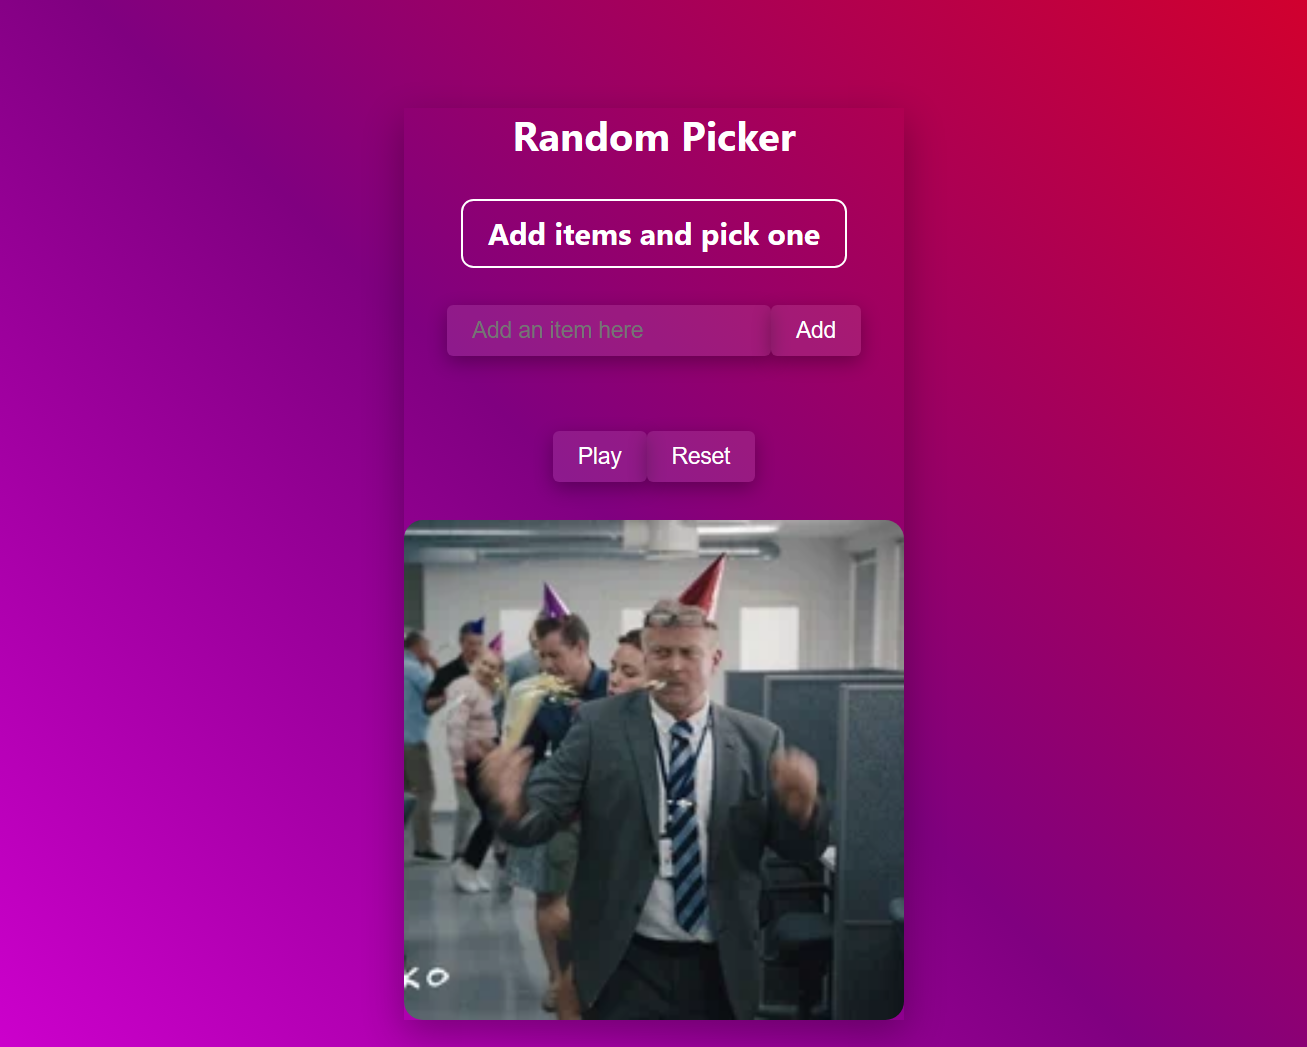
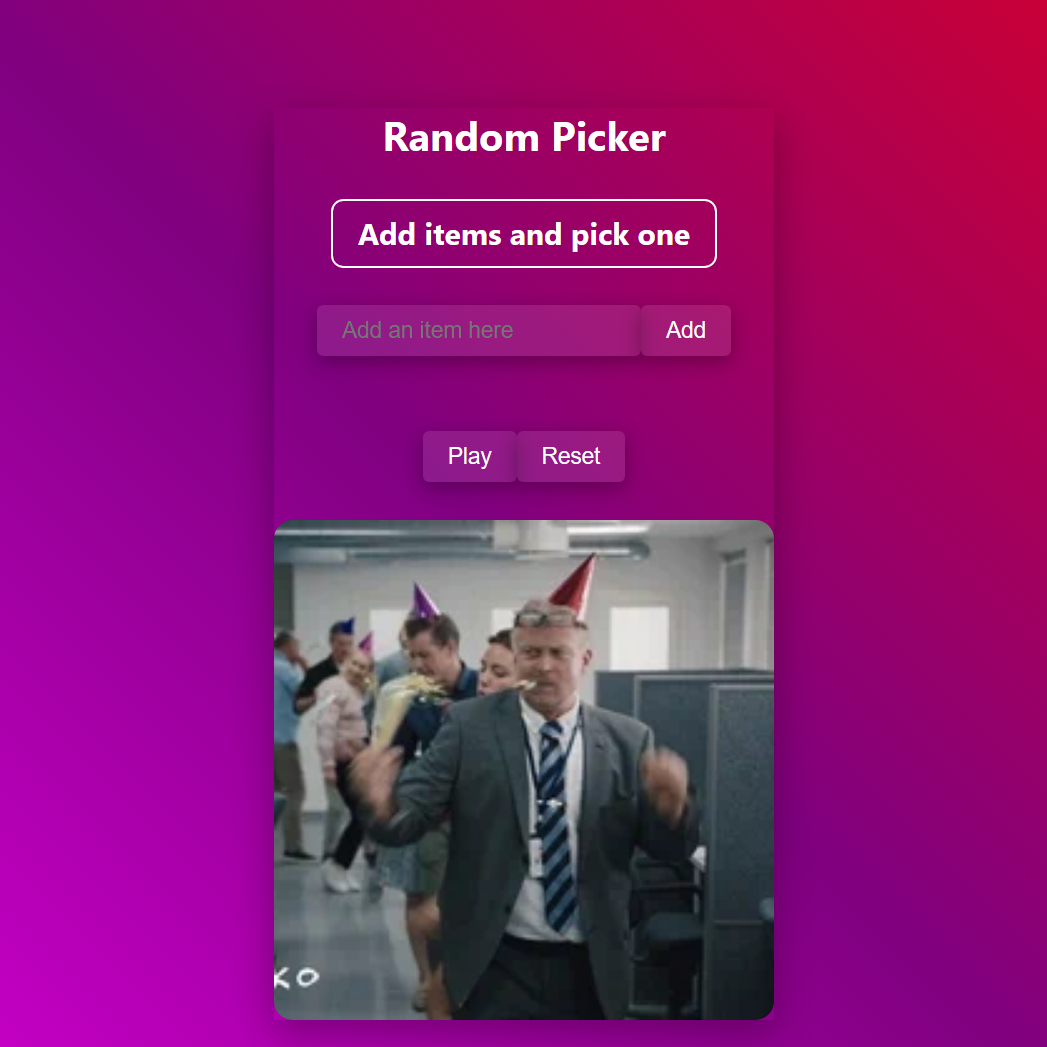
font family and font size changed

diff --git a/src/components/About.jsx b/src/components/About.jsx
@@ -1,39 +1,39 @@
 import AOS from "aos";
-import "aos/dist/aos.css"; // You can also use <link> for styles
-// ..
+import "aos/dist/aos.css";
+
 AOS.init();
 
 export default function About() {
   return (
-    <section id="about" className="text-gray-400 body-font mt-10 mb-10 px-4 ">
-      <div className="container mx-auto  flex space-x-6 px-5 py-2 mb-0 md:flex-row flex-col items-center ">
-        <div className="lg:max-w-lg lg:w-full md:w-1/2  mt-10 mb-0 md:mt-0">
+    <section id="about" className="text-gray-400 body-font mt-10 mb-10 px-4 overflow-x-hidden overflow-y-hidden ">
+      <div className="container mx-auto flex flex-col md:flex-row items-center space-y-6 md:space-x-6 px-5 py-2 mb-0">
+        <div className="w-full md:w-1/2 lg:max-w-lg mt-10 mb-0 md:mt-0 mx-auto">
           <img
             src="/fano3.png"
             alt="About Me"
-            className="object-cover object-center rounded "
+            className="object-cover object-center rounded"
           />
         </div>
-        <div className="lg:flex-grow md:w-1/2 lg:pr-24 md:pr-16 flex flex-col md:items-start md:text-left mb-16 md:mb-0 items-center text-center bg-gray-900 bg-opacity-50 backdrop-filter backdrop-blur-sm p-6 rounded-lg shadow-lg">
+        <div className=" text-gray-300 w-full md:w-1/2 lg:pr-24 md:pr-16 flex flex-col md:items-start md:text-left mb-16 md:mb-0 items-center text-center bg-gray-900 bg-opacity-50 backdrop-filter backdrop-blur-sm p-6 rounded-lg shadow-lg">
           <h2 className="text-3xl font-semibold mb-4">About Me</h2>
-          <p className="text-lg mb-4 mr-5">
+          <p className="text-2xl mb-4 text-left">
             I was born in Venezuela son of Italian father and Venezuelan mother,
-            multiculturalism has been part of my daily life , I studied
-            journalism specializing in audiovisual content production, career
+            multiculturalism has been part of my daily life, I studied
+            journalism specializing in audiovisual content production, a career
             that I had the opportunity to put into practice in various
             independent projects.
           </p>
-          <p className="text-lg mb-5 mr-5">
+          <p className="text-2xl mb-5 text-left">
             In 2020 I had the opportunity to move to Germany to look for new job
-            opportunities and professional growth. since then i have been
-            working hard to achieve this, learning the german language, working
-            for companies like Amazon and constantly learning new skills that
-            will allow me to fully integrate into the german labour market.
+            opportunities and professional growth. Since then, I have been
+            working hard to achieve this, learning the German language, working
+            for companies like Amazon, and constantly learning new skills that
+            will allow me to fully integrate into the German labor market.
           </p>
-          <p className="text-lg mb-4 mr-5">
-            in 2022 i decided to enrich my knowledge, so i took the opportunity
-            to enroll in a ‘Weiterbildung’ full-time Training program, to become
-            in a Full Stack Web Developer, my goal is to continue enriching my
+          <p className="text-2xl mb-4 text-left">
+            In 2022, I decided to enrich my knowledge, so I took the opportunity
+            to enroll in a ‘Weiterbildung’ full-time training program, to become
+            a Full Stack Web Developer. My goal is to continue enriching my
             knowledge by putting it into practice in the job market.
           </p>
         </div>

diff --git a/src/components/Navbar.jsx b/src/components/Navbar.jsx
@@ -5,35 +5,35 @@ import Logo from "/LogoSB.png";
 
 export default function Navbar() {
   return (
-    <header className="bg-gray-800 bg-opacity-70 backdrop-filter backdrop-blur-lg md:sticky top-0 z-10">
+    <header className="bg-gray-800 bg-opacity-70 backdrop-filter backdrop-blur-lg md:sticky top-0 z-10"data-aos="fade-down">
       <div className="container mx-auto flex flex-wrap p-5 flex-col md:flex-row items-center">
         <div className="flex justify-between w-full md:w-auto mb-4 md:mb-0 items-center">
           <img src={Logo} alt="logo" className="w-10 h-10 ml-1" />
           <a
-            className="title-font font-medium text-white ml-3 text-2xl"
+            className="title-font font-medium text-white ml-3 text-4xl"
             href="#home"
           >
             Stefano Borrelli
           </a>
         </div>
         <nav className="md:mr-auto md:ml-4 md:py-1 md:pl-4 md:border-l md:border-gray-700 flex flex-wrap items-center text-base justify-center w-full md:w-auto">
-          <a href="#about" className="mr-5 hover:text-white hidden md:block">
+          <a href="#about" className="mr-5 hover:text-white hidden md:block text-3xl">
             About
           </a>
-          <a href="#projects" className="mr-5 hover:text-white hidden md:block">
+          <a href="#projects" className="mr-5 hover:text-white hidden md:block text-3xl">
             Projects
           </a>
-          <a href="#skills" className="mr-5 hover:text-white hidden md:block">
+          <a href="#skills" className="mr-5 hover:text-white hidden md:block text-3xl">
             Skills
           </a>
         </nav>
-        <div className="flex justify-center w-full md:w-auto space-x-4 drop-shadow-lg shadow-lg">
+        <div className="flex justify-center w-full md:w-auto space-x-4 ">
           <a
             href="#contact"
-            className="inline-flex items-center border-0 py-2 px-4 focus:outline-none hover:bg-white/[0.1] hover:scale-105 rounded text-lg transition-transform duration-300 text-white"
+            className="inline-flex items-center border-0 py-2 px-4 focus:outline-none hover:bg-white/[0.1] hover:scale-105 rounded  transition-transform duration-300 text-white text-3xl"
           >
             Contact Me
-            <FaArrowRight className="w-5 h-5 ml-1" />
+            <FaArrowRight className="w-8 h-8 ml-3 " />
           </a>
           <a
             href="https://github.com/Goleo87"
@@ -41,7 +41,7 @@ export default function Navbar() {
             rel="noopener noreferrer"
             className="inline-flex items-center   border-0 py-2 px-4 focus:outline-none hover:bg-white/[0.1] hover:scale-105 rounded text-lg transition-transform duration-300 text-white"
           >
-            <FaGithub className="w-5 h-5 ml-1" />
+            <FaGithub className="w-8 h-8 " />
           </a>
           <a
             href="https://www.linkedin.com/in/stefanoborrelli"
@@ -49,7 +49,7 @@ export default function Navbar() {
             rel="noopener noreferrer"
             className="inline-flex items-center border-0 py-2 px-4 focus:outline-none hover:bg-white/[0.1] hover:scale-105 rounded text-lg transition-transform duration-300 text-white"
           >
-            <GrLinkedin className="w-5 h-5 ml-1" />
+            <GrLinkedin className="w-8 h-8 " />
           </a>
         </div>
       </div>

diff --git a/src/components/Home.jsx b/src/components/Home.jsx
@@ -5,18 +5,17 @@ export default function Home() {
       className="text-gray-400 body-font transition-opacity duration-1000  delay-500 easy-out opacity-100"
       
     >
-      <div className=" overflow-hidden container mx-auto  flex space-x-6 px-5 py-2 mb-0 md:flex-row flex-col items-center ">
+      <div className=" overflow-hidden container mx-auto mt-10 flex space-x-6 px-5 py-2 mb-0 md:flex-row flex-col items-center ">
         <div className="lg:flex-grow md:w-1/2 lg:pr-24 md:pr-16 flex flex-col md:items-start md:text-left mb-16 md:mb-0 items-center text-center bg-gray-900 bg-opacity-50 backdrop-filter backdrop-blur-sm p-6 rounded-lg shadow-lg" data-aos="fade-right"
       data-aos-offset="300"
       data-aos-easing="ease-in-sine">
           <h1 className="title-font sm:text-4xl text-3xl mb-4 font-medium text-white animate-bounce">
             Hi, I am Stefano.
           </h1>
-          <h2 className="title-font sm:text-2xl text-xl mb-4 font-medium text-rose-500">
-            <br className="hidden lg:inline-block" />
+          <h2 className="tittletext text-3xl sm:text-2xl mb-4 font-medium text-rose-500">
             Frontend Web Developer & Audiovisual Creator
           </h2>
-          <p className="mb-8 leading-relaxed">
+          <p className="textintro text-2xl mb-8 leading-relaxed   text-left ">
             I am a creative person with a passion for technology and art. I have
             a background in Audiovisual Production, which has allowed me to work
             on various projects such as short films, music videos, and podcasts.
@@ -27,13 +26,13 @@ export default function Home() {
           <div className="flex space-x-2 justify-center flex-wrap">
             <a
               href="#contact"
-              className="inline-flex text-white bg-rose-700 bg-opacity-70 backdrop-filter backdrop-blur-lg border-spacing-0.5 py-2 px-6 focus:outline-none hover:bg-rose-600 hover:scale-105 rounded text-lg transition-transform duration-300 mb-4 md:mb-0 md:mr-4"
+              className="inline-flex text-white bg-rose-700 bg-opacity-70 backdrop-filter backdrop-blur-lg border-spacing-0.5 py-2 px-6 focus:outline-none hover:bg-rose-600 hover:scale-105 rounded text-2xl transition-transform duration-300 mb-4 md:mb-0 md:mr-4 drop-shadow-sm shadow-lg"
             >
               Work With Me
             </a>
             <a
               href="#projects"
-              className="inline-flex text-white bg-rose-700 bg-opacity-70 backdrop-filter backdrop-blur-lg border-spacing-0.5 py-2 px-6 focus:outline-none hover:bg-rose-600 hover:scale-105 rounded text-lg transition-transform duration-300 mb-4 md:mb-0 md:mr-4"
+              className="inline-flex drop-shadow-sm shadow-lg text-white bg-rose-700 bg-opacity-70 backdrop-filter backdrop-blur-lg border-spacing-0.5 py-2 px-6 focus:outline-none hover:bg-rose-600 hover:scale-105 rounded text-2xl transition-transform duration-300 mb-4 md:mb-0 md:mr-4"
             >
               My Projects
             </a>

diff --git a/src/components/Projects.jsx b/src/components/Projects.jsx
@@ -1,33 +1,31 @@
-
 import { projects } from "../data";
 import { CodeIcon } from "@heroicons/react/solid";
-
-
 
 export default function Projects() {
   return (
     <section id="projects" className="text-gray-400 bg-gray-900 bg-opacity-50 backdrop-filter backdrop-blur-sm p-6 rounded-lg shadow-lg">
       <div className="container px-5 py-10 mx-auto text-center lg:px-40">
         <div className="flex flex-col w-full mb-20">
-          <CodeIcon className="mx-auto inline-block w-20 h-20 mb-5 " />
+          <CodeIcon className="mx-auto inline-block w-20 h-20 mb-5" />
           <h1 className="sm:text-4xl text-3xl font-medium title-font mb-4 text-white">
             Projects in Development
           </h1>
         </div>
-        <div className="flex flex-wrap m-4">
+        <div className="flex flex-wrap justify-center m-4">
           {projects.map((project) => (
             <a
               href={project.link}
               key={project.image}
               target="_blank"
-              className="sm:w-1/2 lg:w-1/4 w-full p-4">
-              <div className="flex relative w-full h-full">
+              rel="noopener noreferrer"
+              className="w-full sm:w-1/2 lg:w-1/4 p-4">
+              <div className="flex relative w-full h-full aspect-w-1 aspect-h-1">
                 <img
                   alt="gallery"
                   className="absolute inset-0 w-full h-full object-cover object-center transition-transform duration-300 transform hover:scale-105"
                   src={project.image}
                 />
-                <div className="px-8 py-10 relative z-10 w-full border-4 border-gray-800 bg-gray-900 bg-opacity-70 backdrop-filter backdrop-blur-lg opacity-0 hover:opacity-100 transition-opacity duration-300">
+                <div className="px-8 py-10 relative z-10 w-full  bg-gray-900 bg-opacity-70 backdrop-filter backdrop-blur-lg opacity-0 hover:opacity-100 transition-opacity duration-300">
                   <h2 className="tracking-widest text-sm title-font font-large text-rose-500 mb-1">
                     {project.subtitle}
                   </h2>

diff --git a/src/components/Contact.jsx b/src/components/Contact.jsx
@@ -2,15 +2,15 @@ export default function Contact() {
   return (
     <section id="contact" className="relative">
       <div className="container py-10 mx-auto lg:w-1/2 px-6 mt-4 lg:mt-0 text-center lg:text-center">
-        <h1 className="text-3xl font-medium title-font text-white mb-4">
+        <h1 className="text-5xl font-medium text-white mb-4">
           Contact
         </h1>
-        <h2 className="text-lg leading-relaxed mb-8"></h2> Via Email:{" "}
+        <h2 className="text-lg leading-relaxed mb-8"></h2> Via Email: {" "}
         <a
           href="mailto:stefano.borrelli@gmail.com"
           className="text-rose-500 leading-relaxed text-xl mb-8 hover:text-rose-100 transition duration-300 ease-in-out"
         >
-          stefano.borrelli@gmail.com
+           stefano.borrelli@gmail.com
         </a>
         <h1 className="text-xl">
           © 2024 Stefano Borrelli. All rights reserved.

diff --git a/src/App.jsx b/src/App.jsx
@@ -4,11 +4,11 @@ import Contact from "./components/Contact";
 import Navbar from "./components/Navbar";
 import Projects from "./components/Projects";
 import Skills from "./components/Skills";
-import backgroundImage from "../public/g8.jpg";
+import backgroundImage from "/g8.jpg";
 import About from "./components/About";
 import Intro from "./components/Intro";
 import AOS from 'aos';
-import 'aos/dist/aos.css'; // You can also use <link> for styles
+import 'aos/dist/aos.css'; 
 // ..
 AOS.init();
 
@@ -22,7 +22,7 @@ useEffect(() => {
     }
   }, [isIntroComplete]);
   return (
-    <main className="text-gray-400 bg-fixed bg-cover body-font"
+    <main className="text-gray-400 font-sans bg-fixed bg-cover body-font"
       style={{ backgroundImage: `url(${backgroundImage})` }}>
       {!isIntroComplete ? (
         <Intro onIntroComplete={() => setIsIntroComplete(true)} />

diff --git a/tailwind.config.js b/tailwind.config.js
@@ -6,7 +6,22 @@ export default {
     "./src/**/*.{js,ts,jsx,tsx}",
   ],
   theme: {
-    
+    screens: {
+      'sm': '640px',
+      // => @media (min-width: 640px) { ... }
+
+      'md': '768px',
+      // => @media (min-width: 768px) { ... }
+
+      'lg': '1024px',
+      // => @media (min-width: 1024px) { ... }
+
+      'xl': '1280px',
+      // => @media (min-width: 1280px) { ... }
+
+      '2xl': '1536px',
+      // => @media (min-width: 1536px) { ... }
+    },
     extend: {
       animation: {
         bounce: 'bounce 2s infinite',
@@ -15,6 +30,8 @@ export default {
         bounce: {
           '0%, 100%': { transform: 'translateY(-25%)', animationTimingFunction: 'cubic-bezier(0.8,0,1,1)' },
           '50%': { transform: 'translateY(0)', animationTimingFunction: 'cubic-bezier(0,0,0.2,1)' },
+  
+        
         },
       },
     },

diff --git a/src/components/Intro.jsx b/src/components/Intro.jsx
@@ -2,19 +2,19 @@
 
 import { useEffect } from 'react';
 
-
+//function to display the intro screen
 const Intro = ({ onIntroComplete }) => {
   useEffect(() => {
     const timer = setTimeout(() => {
       onIntroComplete();
-    }, 3000); // Change the duration as needed
+    }, 3000); // duration of the intro
     return () => clearTimeout(timer);
   }, [onIntroComplete]);
 
   return (
     <div className="flex items-center justify-center h-screen  text-white fade-in-out">
       <div className="bg-opacity-100 backdrop-filter backdrop-blur-sm p-10 rounded-xl text-center">
-        <h1 className="text-5xl">Welcome to My Page</h1>
+        <h1 className="text-7xl font-serif">Stefano Borrelli</h1>
       </div>
     </div>
   );
